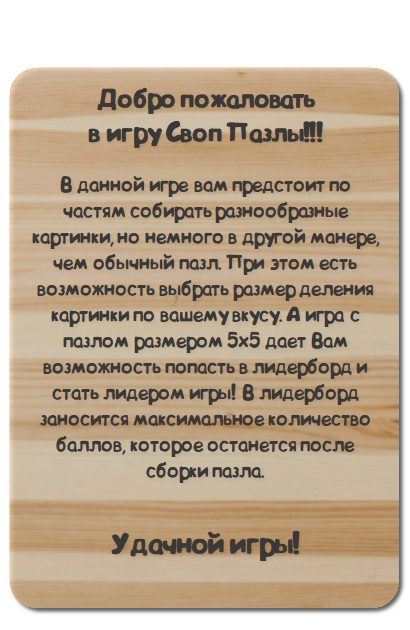
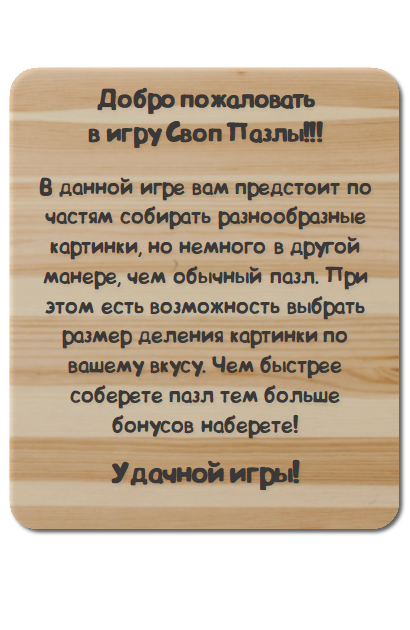
reg

diff --git a/index.js b/index.js
@@ -178,7 +178,7 @@ class lb_player_card_class extends PIXI.Container{
 
 var puzzle = {
 	
-	size: 3,
+	size: 4,
 	cell_size:100,
 	x:25,
 	y:150,
@@ -1103,7 +1103,7 @@ var menu2= {
 		g_process=this.process;
 		
 		if (init===1) {
-			this.change_board_down(5, 0);			
+			this.change_board_down(3, 0);			
 			this.set_random_pic(0);		
 		}
 		else {
@@ -1205,8 +1205,6 @@ var menu2= {
 			return;
 		
 		
-		
-		
 		game_res.resources.click.sound.play();
 		
 
@@ -1248,11 +1246,8 @@ var menu2= {
 		if (size===puzzle.size)
 			return;
 		
+
 		
-		if (size === 5)
-			objects.puzzle_info.text='В данном режиме\nдоступна бонусная игра!'
-		else
-			objects.puzzle_info.text='Бонусная игра\nв данном режиме не доступна!'
 		
 		let old_width=objects['net_'+puzzle.size].width;
 
@@ -1260,7 +1255,7 @@ var menu2= {
 		anim.add_pos({obj: objects['net_'+puzzle.size],param: 'alpha',		vis_on_end: false,func: 'linear',val: [1,0],	speed: 0.03	});
 
 		//устанавливаем и пересчитываем параметры паззла
-		puzzle.set_size(size);	
+		puzzle.set_size(size);			
 
 		//появление новой сетки
 		//anim.add_pos({obj: objects['net_'+puzzle.size],param: 'alpha',		vis_on_end: true,func: 'linear',val: [0,1],	speed: 0.03	});
@@ -1366,9 +1361,10 @@ var game = {
 
 	start_time: 0,
 	timer : 0,
-	bonus : 1,
+	bonus_time : 0,
 	time_result : 0,
 	start_time : 0,
+	swap_penalty: 0,
 	change_pic_on_exit: 0,
 	last_record : 0,
 	finish_params : {3 :[30,0.025], 4:[25,0.03], 5:[20,0.035]},
@@ -1389,28 +1385,15 @@ var game = {
 		
 		//добавляем сетку картинки
 		anim.add_pos({obj: objects['net_'+puzzle.size],param: 'alpha',		vis_on_end: true,func: 'linear',val: [0,1],	speed: 0.03	});
-			
-			
+						
 		//добавляем кнопки
 		anim.add_pos({obj: objects.game_buttons_cont,param:	'x',vis_on_end: true,func: 'linear',val: [450,'sx'],	speed: 0.03});
-		
-				
+						
 		//добавляем прогресс 
-		if (puzzle.size === 5) {
-			
-			anim.add_pos({obj: objects.progress_cont,param: 		'x',vis_on_end: true,func: 'linear',val: [450,'sx'],	speed: 0.03	});			
-			
-			objects.my_record_point.x = 30 + my_data.record * 320 / 300;
-			objects.top_record_point.x = 30 + global_record * 320 / 300;
-			
-			objects.g_progress.text = '300';
-			
-			objects.time_slider.scale.x = 1;
-			
-			
-			
-		}
-
+		anim.add_pos({obj: objects.progress_cont,param: 'x',vis_on_end: true,func: 'linear',val: [450,'sx'],	speed: 0.03	});		
+		objects.g_progress.text = '100';		
+		objects.time_slider.scale.x = 1;
+		
 		this.change_pic_on_exit = 0;
 			
 		//фиксируем начало игры
@@ -1418,23 +1401,21 @@ var game = {
 	
 		//утсанавливаем процессинговую функцию
 		g_process=function(){game.process()};			
-		
-		
+				
 		//показываем сколько подсказок есть
 		objects.hint_button_text.text=puzzle.hints_amount;
-
 	
 		//устанавливаем начальные значения завершенных паззлов
 		objects.complete_counter.text = "Завершено: 0%";
 
 		//бонус акивирован но он может быть отменен по ходу игры
-		this.bonus = 1;
+		this.bonus_time = (puzzle.size === 3) * 25 + (puzzle.size === 4) * 150 + (puzzle.size === 5) * 400;
+		//this.swap_penalty = (puzzle.size === 3) * 30 + (puzzle.size === 4) * 100 + (puzzle.size === 5) * 300;
 		
 		objects.main_bcg.visible = false;
 		objects.mask_bcg.visible = true;
 		objects.mask_bcg.texture = gres['mask_bcg'+puzzle.size].texture;
 				
-
 	},
 		
 	back_button_down: function() {
@@ -1471,9 +1452,6 @@ var game = {
 	
 	process : function () {
 		
-		//показыаем прогресс только для картинки 5х5
-		if (puzzle.size !== 5)
-			return;
 		
 
 		//вычисляем прогресс
@@ -1482,13 +1460,11 @@ var game = {
 		if (sec_passes > 40)
 			this.change_pic_on_exit = 1;
 		
-		let perc = 1 - sec_passes / 300;
-
-
+		let perc = 1 - sec_passes / this.bonus_time;
 		
 		if (perc > 0.001) {
 			objects.time_slider.scale.x =  perc;		
-			this.last_record = Math.round(300*perc);	
+			this.last_record = Math.round(100*perc);	
 			objects.g_progress.text = this.last_record;			
 			objects.g_progress.x = objects.time_slider.width+35;
 		}	
@@ -1534,10 +1510,12 @@ var game = {
 		{
 								
 			//анализируем результаты игры
-			let res_data = this.process_game_results();
+			//let res_data = this.process_game_results();
+			
+			this.last_record += puzzle.size;
 			
 			//показываем сообщение
-			puzzle_complete_message.show(res_data);					
+			puzzle_complete_message.show(this.last_record);					
 			
 			//делаем звук
 			game_res.resources.win.sound.play();
@@ -1550,6 +1528,9 @@ var game = {
 		
 			activity_on=0;		
 		}		
+
+
+
 
 		//обрабатываем кручение задней картинки
 		puzzle_complete_message.process();
@@ -1597,7 +1578,7 @@ var game = {
 		
 	made_a_swap : function () {
 		
-		this.start_time -= 3; 
+		this.start_time -= 0.25; 
 		
 	},
 	
@@ -1617,50 +1598,18 @@ var game = {
 
 var puzzle_complete_message= {
 	
-	show : function(params = {my_new_record :0, game_new_record:0, is_bonus_game :0}) {
+	show : function(result) {
 								
-		//показыаем шкалу достижений
-		if (params.is_bonus_game === 1) {
+				
 			
-			objects.game_complete_0.text=`Пазл собран!\nВаш результат:\n${game.last_record}`;				
-			//objects.game_complete_1.text="Жаль только что не побили рекорд(((";						
+		objects.game_complete_0.text="Пазл собран!!!";	
+		objects.game_complete_1.text= "Заработанно баллов: " + result;	
 
-			//проверяем личный новый рекорд
-			if (params.my_new_record === 1) {
-				
-				objects.game_complete_0.text=`Ваш результат:\n${game.last_record}!\n\nВы побили свой рекорд!\n\nМолодец!`;			
-				objects.game_complete_1.text="";		
-				
-				setTimeout(function() {
-					game_res.resources.new_record.sound.play();
-					mini_message.show("Новый личный рекорд!");						
-				},700)
-			}
-			
-			//проверяем глобальный рекорд
-			if (params.game_new_record === 1) {
-				
-				objects.game_complete_0.text=`Ваш результат:\n${game.last_record}!\n\nВы побили рекорд игры!\n\nМолодец!`;				
-				objects.game_complete_1.text="";	
-				setTimeout(function() {
-					game_res.resources.new_record2.sound.play();
-					mini_message.show("Новый рекорд игры!");						
-				},1500)
-			}							
-			
-		}
-				
-		if (params.is_bonus_game === 0) {
-			
-						
-			objects.game_complete_0.text="";	
-			objects.game_complete_1.text="Пазл собран!!!";	
-		}
-				
+
 		
 		
 		//добавляем дополнение к радуге если новые рекорды
-		if (params.my_new_record === 1 || params.game_new_record === 1) {			
+		if (result > 0) {			
 			anim2.add(objects.rainbow2,{
 				rotation:[0,1.2],
 				alpha:[0,1]
@@ -1670,10 +1619,13 @@ var puzzle_complete_message= {
 			anim.add_scl({obj: objects.rainbow2,param: 'y',vis_on_end: true,func: 'easeOutBack',val: [0,1],	speed: 0.003});			
 		}
 
+		my_data.record += result;
 
 		//записываем событие
 		firebase.database().ref("players/"+my_data.uid+"/tm").set(firebase.database.ServerValue.TIMESTAMP);
-				
+		firebase.database().ref("players/"+my_data.uid+"/record").set(my_data.record);
+		
+		
 		anim.add_pos({obj: objects.game_complete_cont,param: 'x',		vis_on_end: true,func: 'easeOutBack',val: [-500,'sx'],	speed: 0.03	});
 		anim.add_pos({obj: objects.rainbow,param: 'alpha',		vis_on_end: true,func: 'linear',val: [0,1],	speed: 0.03	});
 		
